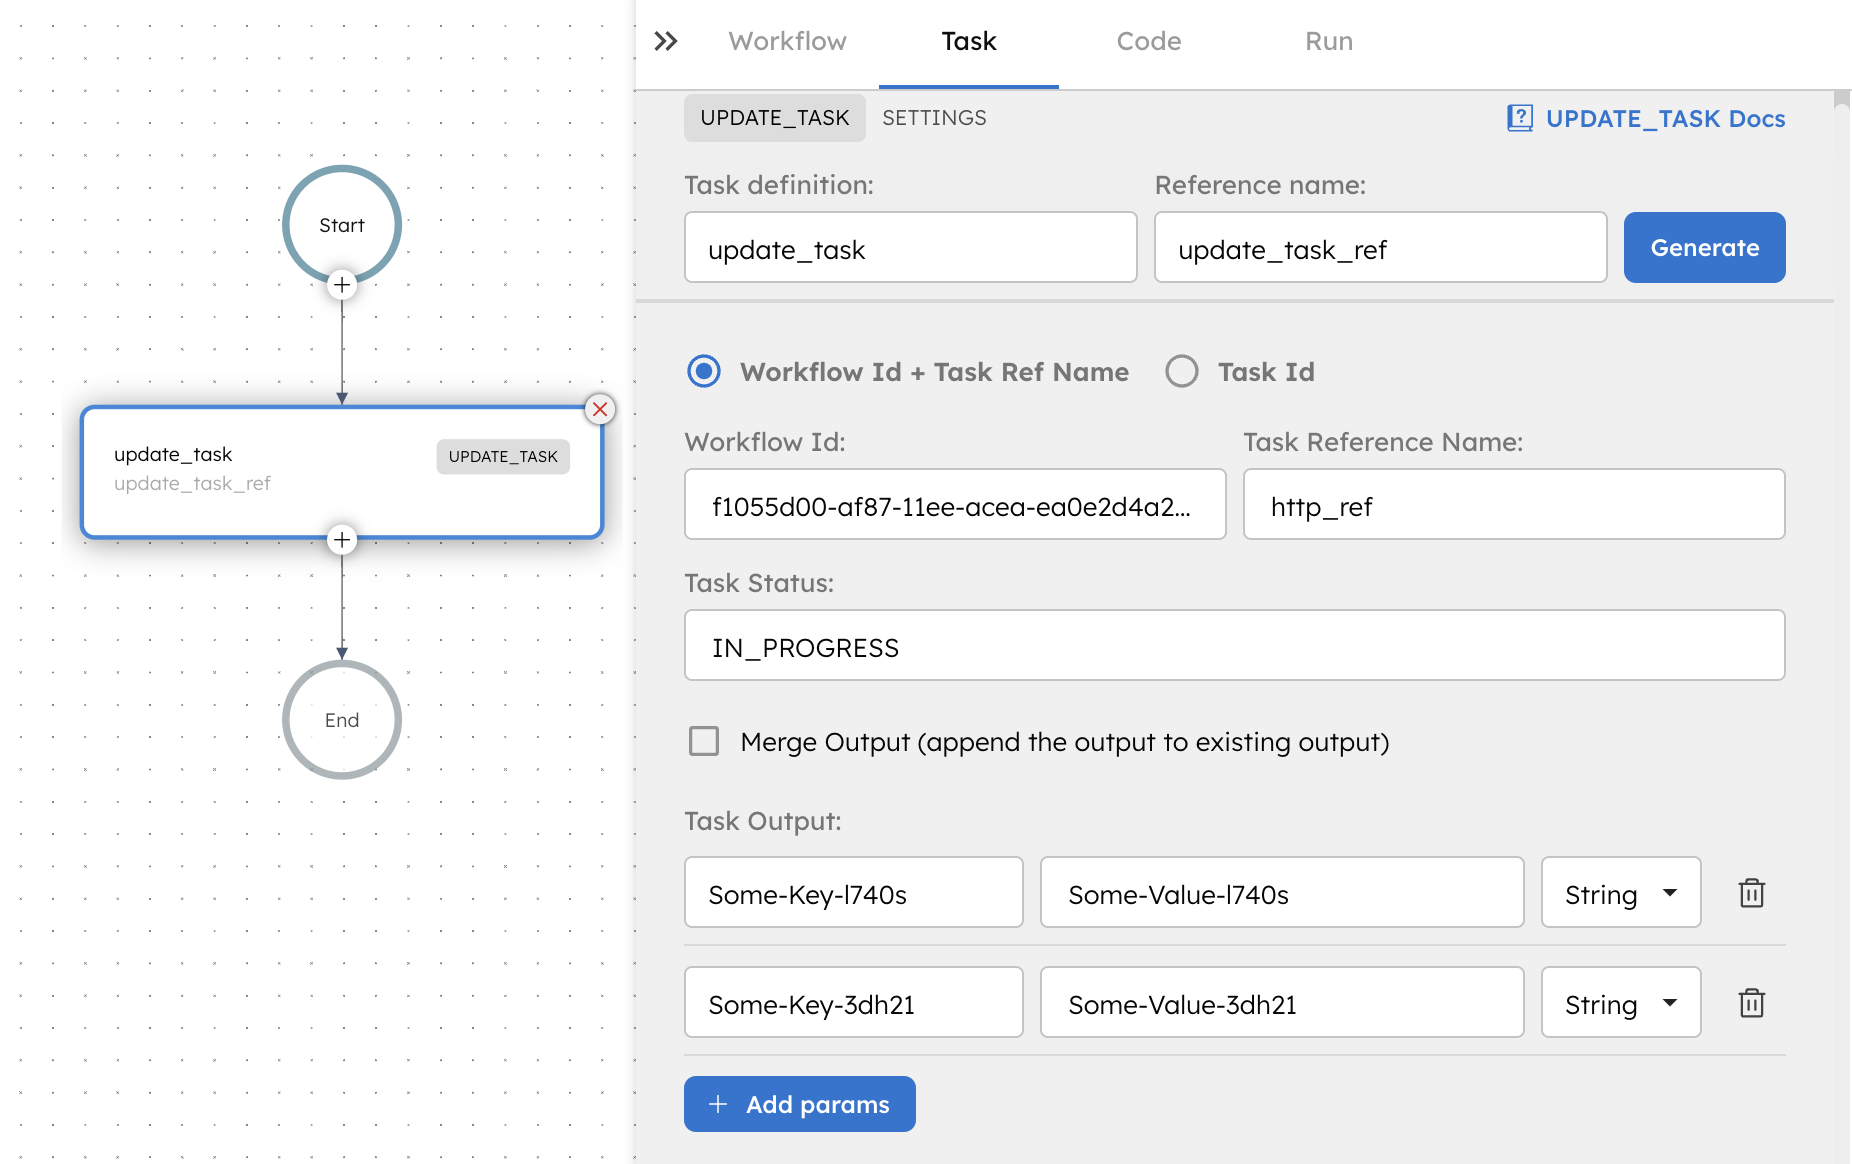
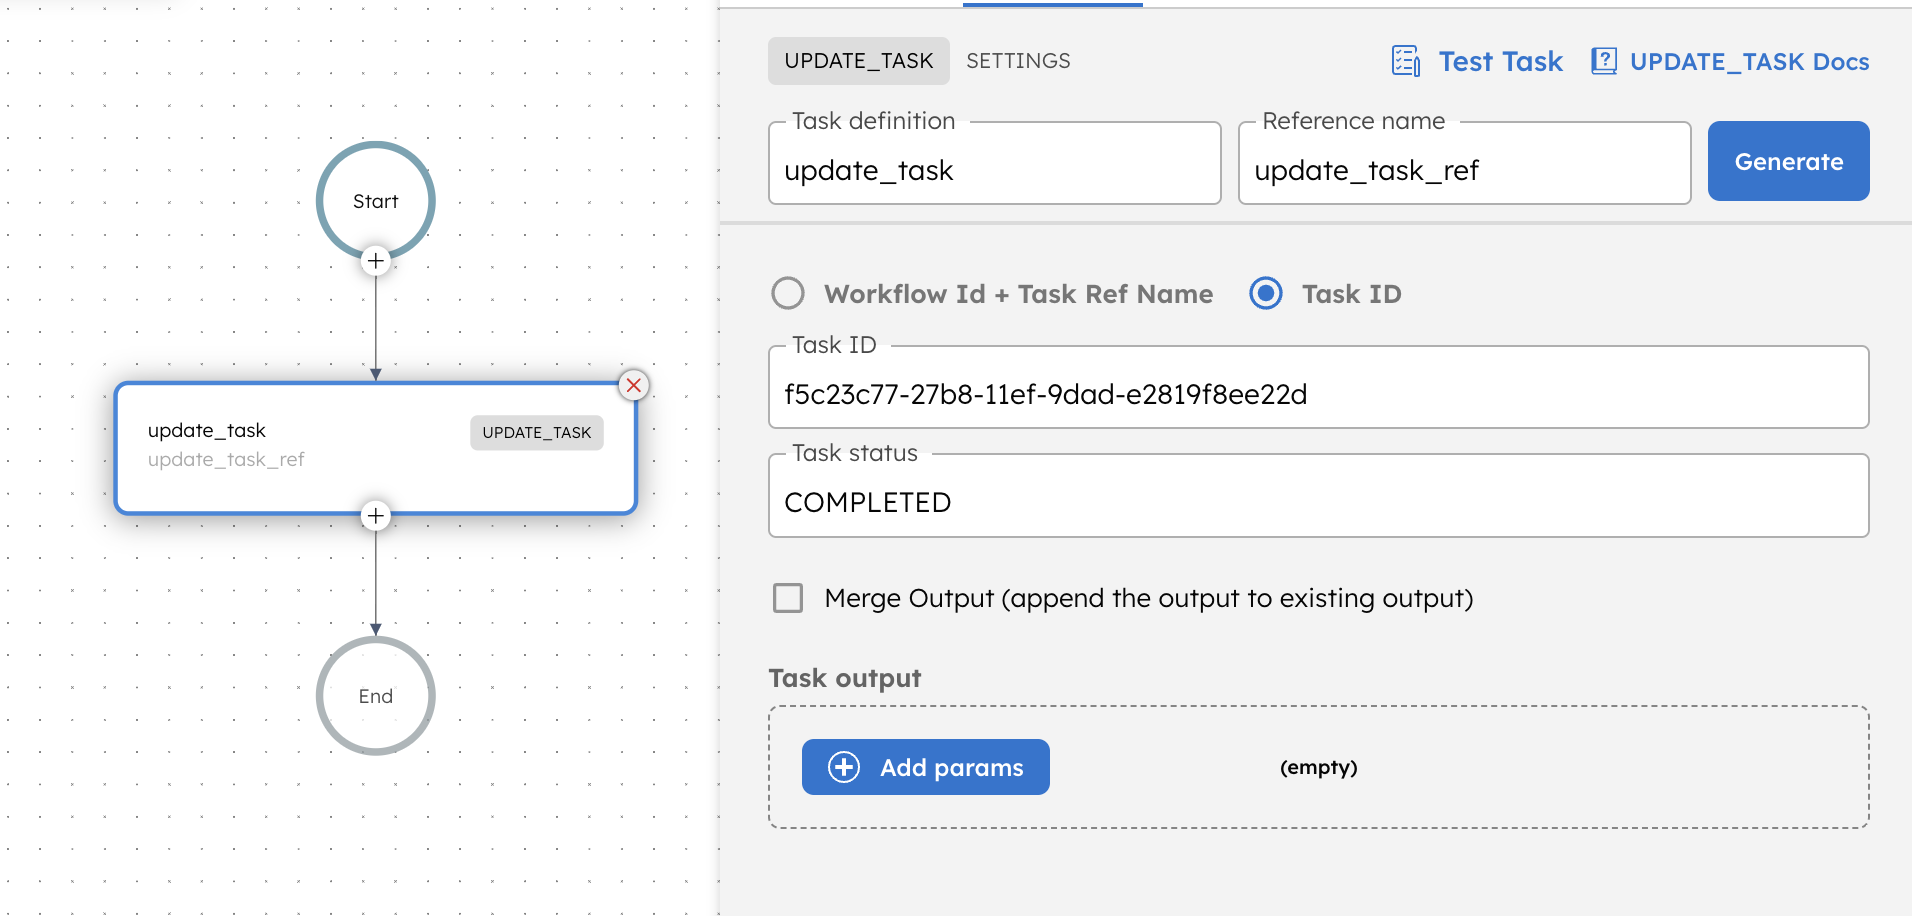
Update Task ~ updates

diff --git a/docs/reference-docs/system-tasks/update-task.md b/docs/reference-docs/system-tasks/update-task.md
@@ -21,39 +21,35 @@ The user running this workflow should have access to the task being updated.
 ## Definitions
 
 ```json
-{
+   {
      "name": "update_task",
      "taskReferenceName": "update_task_ref",
      "inputParameters": {
-       "taskStatus": "IN_PROGRESS",
-       "mergeOutput": true,
-       "workflowId": "f1055d00-af87-11ee-acea-ea0e2d4a2d25",
-       "taskRefName": "http_ref",
-       "taskOutput": {
-         "Some-Key-l740s": "Some-Value-l740s",
-         "Some-Key-3dh21": "Some-Value-3dh21"
-       }
+       "taskStatus": "COMPLETED",
+       "mergeOutput": false,
+       "taskId": "f5c23c77-27b8-11ef-9dad-e2819f8ee22d"
      },
-     "type": "UPDATE_TASK",
-}
+     "type": "UPDATE_TASK"
+   }
 ```
 
 ## Input Parameters
 
 | Attribute  | Description             |
 |-------------|-------------------------|
-| taskStatus | Specify the status of the task to be updated. It can take values:<ul><li>PENDING</li><li>SKIPPED</li><li>TIMED_OUT</li><li>COMPLETED_WITH_ERRORS</li><li>CANCELED</li><li>SCHEDULED</li><li>FAILED_WITH_TERMINAL_ERROR</li><li>FAILED</li><li>IN_PROGRESS</li><li>COMPLETED</li></ul><br/>You can also pass this [value as a variable](https://orkes.io/content/developer-guides/passing-inputs-to-task-in-conductor). |
-| workflowId | The execution ID of the workflow containing the task to be updated.<br/><br/>**Note:**If the task status is updated using workflowId, ensure that you also provide the task reference name. |
-| taskRefName | The reference name of the task whose status is to be updated. |
-| taskId | If you are updating the status of the task simply using taskId, then provide the execution ID of the task whose status is to be updated. |
-| taskOutput | Provide the key-value map that will be updated as the task output, whose status is being updated. |
-| mergeOutput | An optional parameter to merge the output. By default, this is set to false. <br/><br/> Setting this to true allows the outputs generated by this task (taskOutput) to be combined with the existing task output (whose status is being updated). It can be used to append new output key values to the existing task output.|
+| taskStatus | Specify the status of the task to be updated. Supported values:<ul><li>FAILED_WITH_TERMINAL_ERROR</li><li>FAILED</li><li>COMPLETED</li></ul>You can also pass this [value as a variable](https://orkes.io/content/developer-guides/passing-inputs-to-task-in-conductor). |
+| workflowId | The execution ID of the workflow containing the task to be updated. Required if updating using **_workflowId_**. |
+| taskRefName | The reference name of the task to be updated. Required if updating using **_workflowId_**. |
+| taskId | The execution ID of the task to be updated. Required if updating using **_taskId_**. |
+| taskOutput | A key-value map that will be updated as the task output.. |
+| mergeOutput | An optional parameter to merge the output. By default, this is set to false. If set to true, the outputs generated by this task (taskOutput) will be combined with the existing task output. |
 
 ## Output Parameters
 
 | Attribute  | Description             |
 |-------------|-------------------------|
-| taskOutput | Displays the new output of the task if defined in the task definition. | 
+| updatedTaskId | Displays the task execution ID of the updated task. |
+| taskOutput | Displays the new output of the task if defined. | 
 
 ## Examples
 
@@ -85,21 +81,16 @@ The user running this workflow should have access to the task being updated.
  <TabItem value="JSON" label="JSON">
 
 ```json
-    {
+   {
      "name": "update_task",
      "taskReferenceName": "update_task_ref",
      "inputParameters": {
-       "taskStatus": "IN_PROGRESS",
-       "mergeOutput": true,
-       "workflowId": "f1055d00-af87-11ee-acea-ea0e2d4a2d25",
-       "taskRefName": "http_ref",
-       "taskOutput": {
-         "Some-Key-l740s": "Some-Value-l740s",
-         "Some-Key-3dh21": "Some-Value-3dh21"
-       }
+       "taskStatus": "COMPLETED",
+       "mergeOutput": false,
+       "taskId": "f5c23c77-27b8-11ef-9dad-e2819f8ee22d"
      },
-     "type": "UPDATE_TASK",
-}
+     "type": "UPDATE_TASK"
+   }
 ```
 
 </TabItem>
